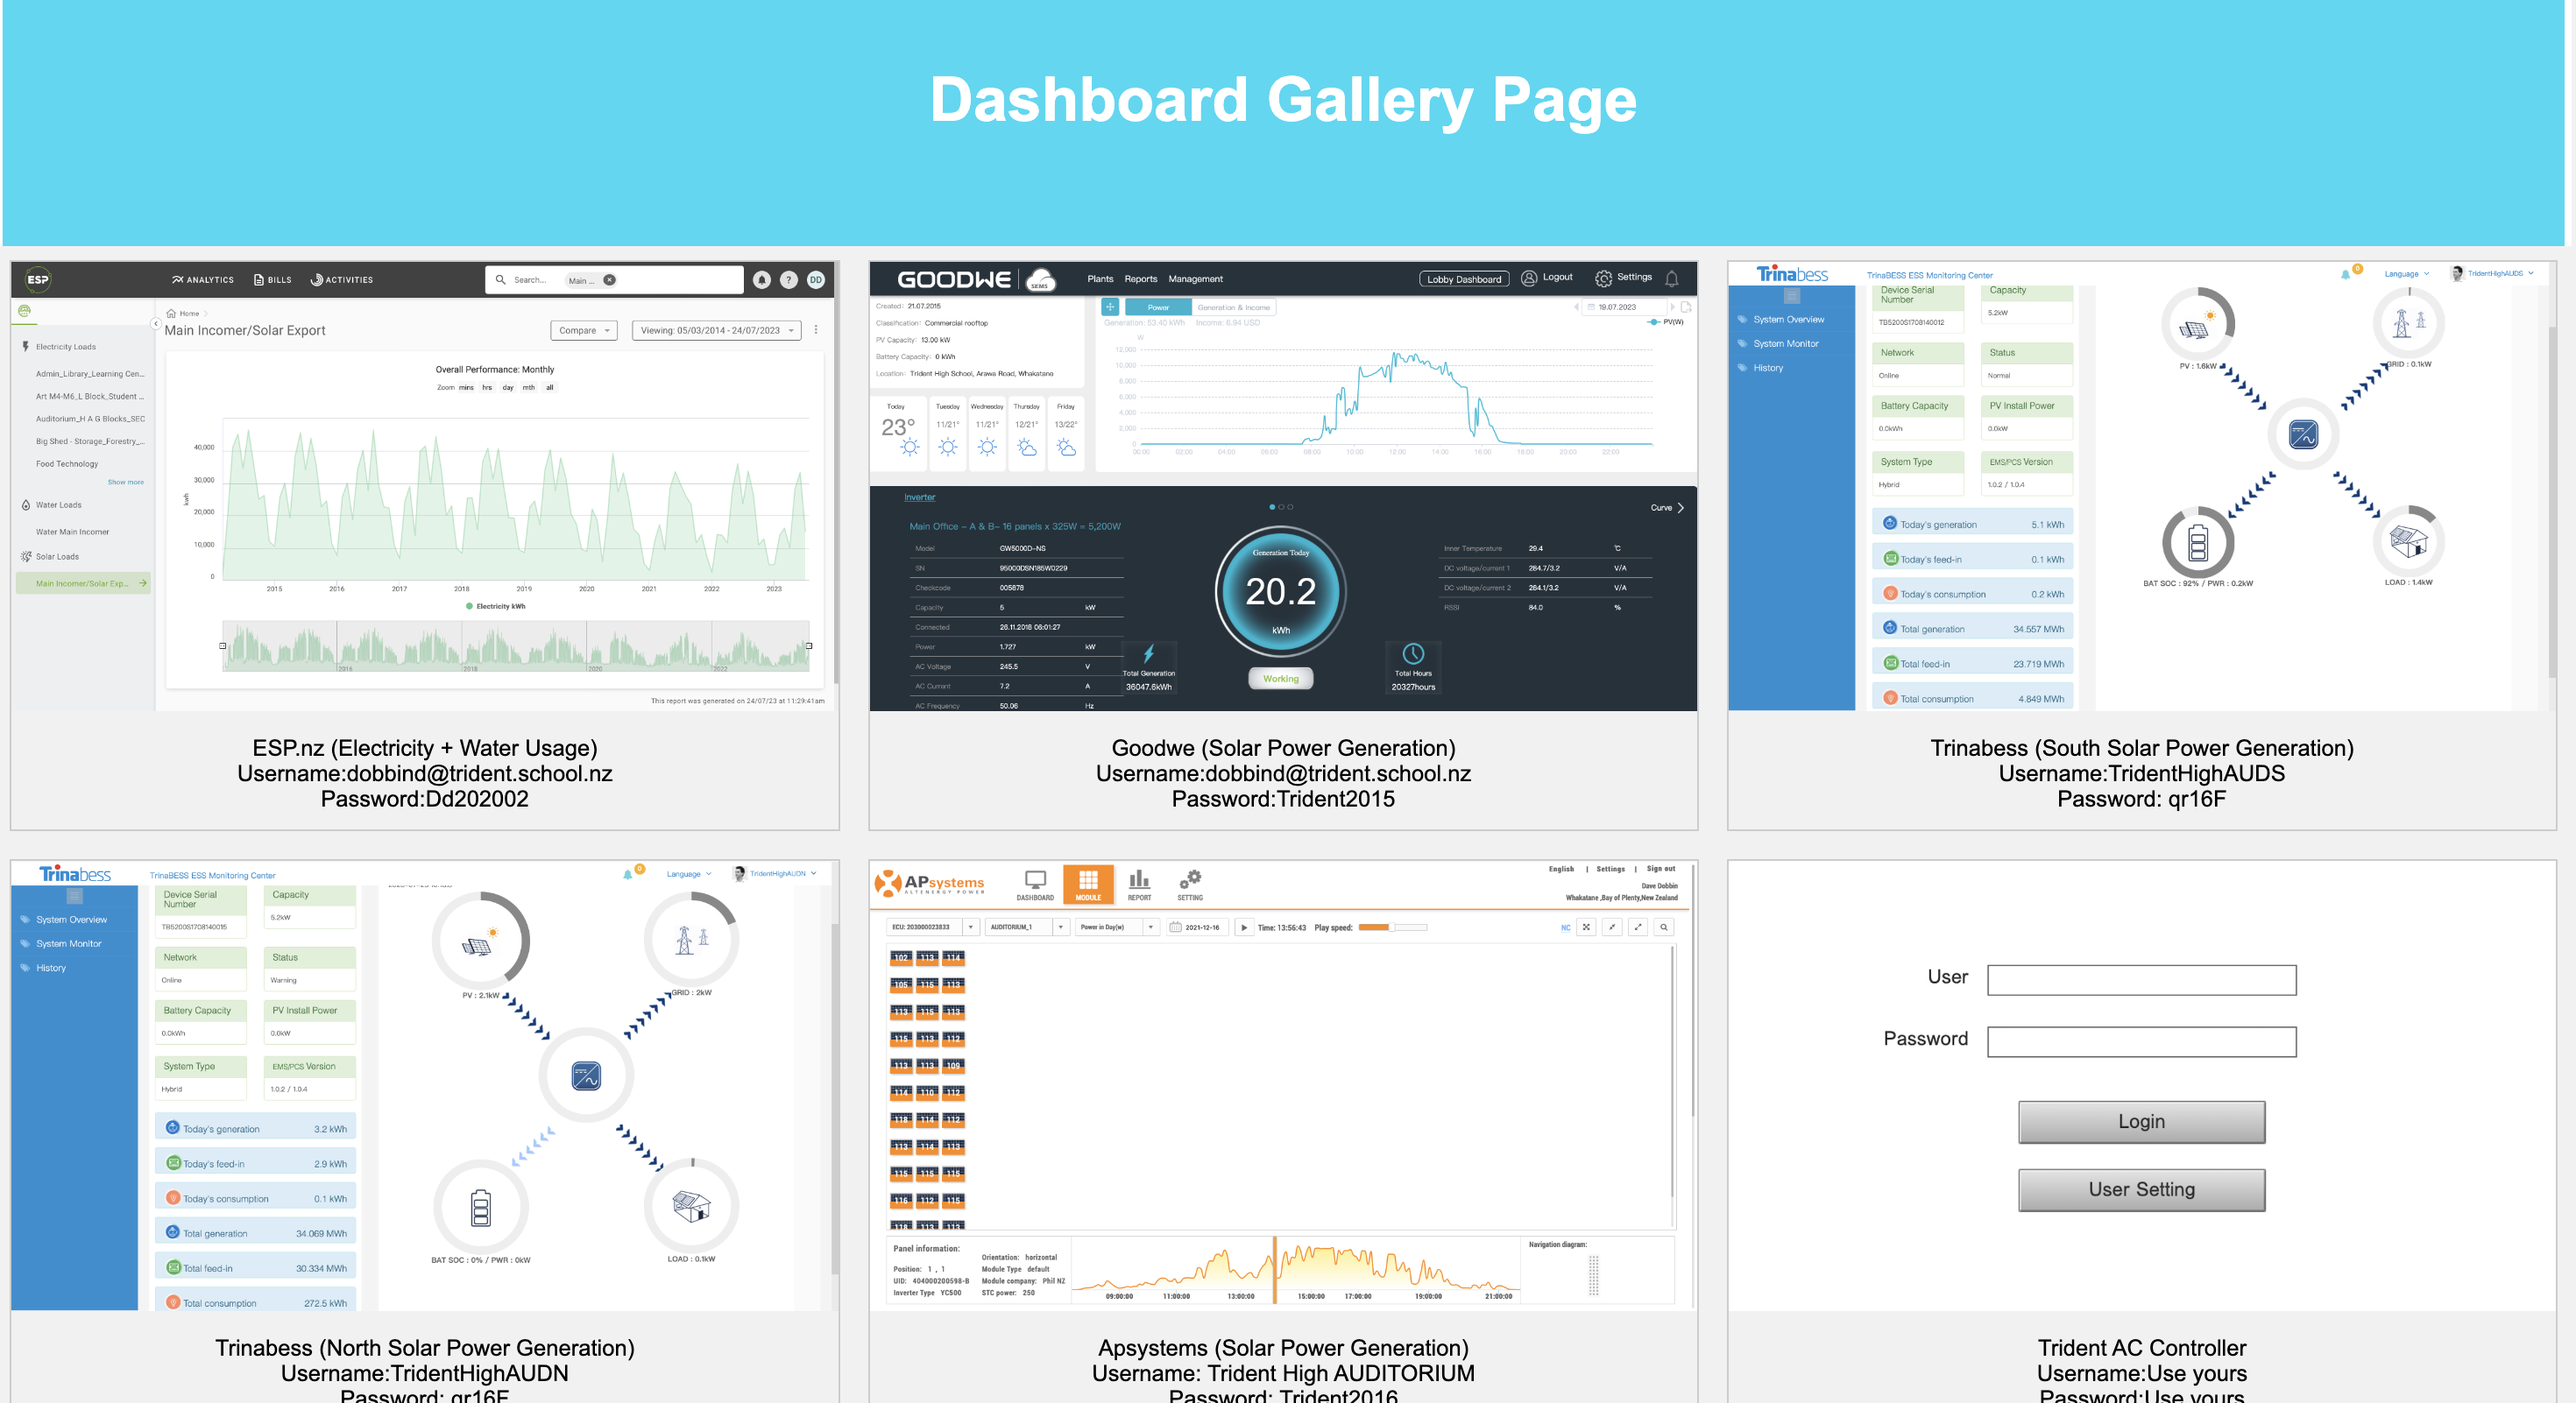
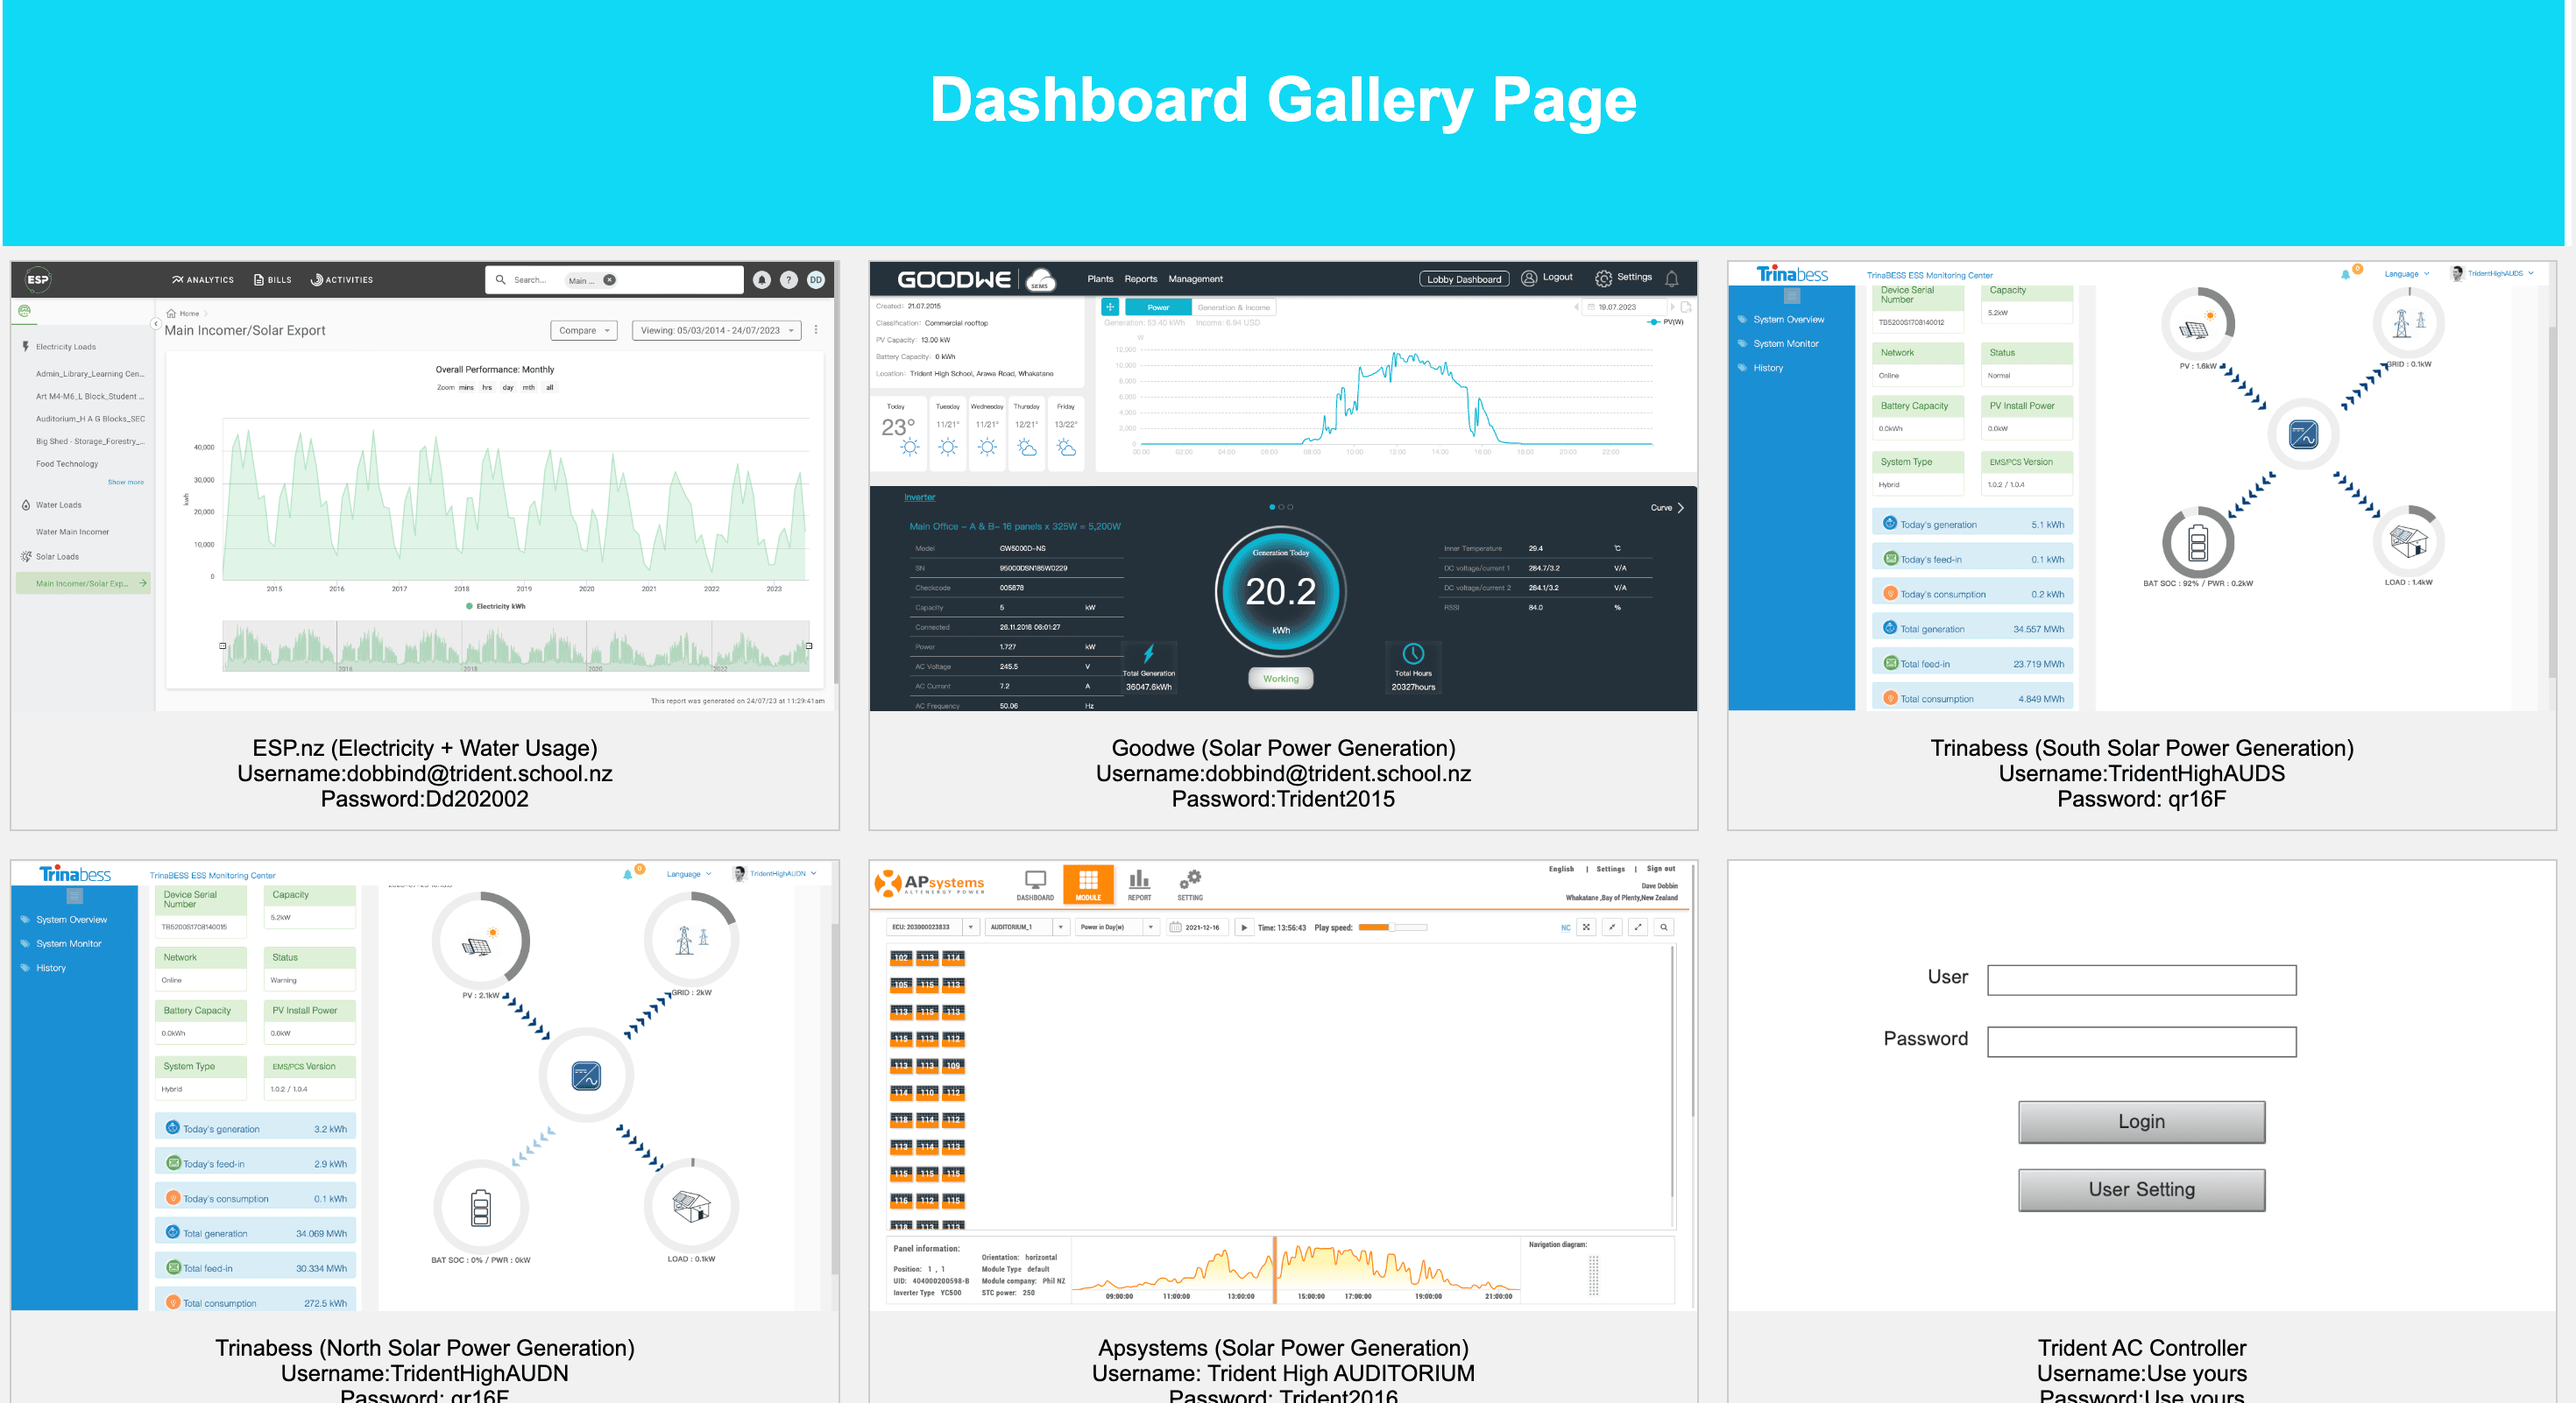
added gallery.css and other things
added gallery.css, added a way to get image from a database, added code to make graphs from database

diff --git a/css/gallerystyle.css b/css/gallerystyle.css
@@ -1,0 +1,30 @@
+div.gallery {
+  margin: 8px;
+  border: 1px solid #ccc;
+  float: left;
+  width: 180px;
+  flex:30%;
+}
+div.header {
+    border-top-style: none;
+    border-bottom-style: none;
+    border-left-style: solid;
+    border-right-style: solid;
+    border-width: 4px;
+    border-color: #FFFFFF;
+    }
+div.gallery img:hover {
+  border: 1px solid #777;
+}
+
+div.gallery img {
+  width: 100%;
+  height: auto;
+}
+
+div.desc {
+  padding: 10px;
+  text-align: center;
+  font-size:80%;
+  word-wrap: break-word;
+}

diff --git a/css/fixedstyle.css b/css/fixedstyle.css
@@ -4,7 +4,10 @@
 body {
     font-family: Arial, Helvetica, sans-serif;
     margin: 0;
-    background-color: #ffffff;
+    background-image: url("tridentbg.jpg");
+    background-repeat: no-repeat;
+    background-attachment: fixed;  
+    background-size: cover;
 }
 .wrapper{
     width: 80%;
@@ -24,7 +27,7 @@ body {
     }
 .navbar {
     overflow:hidden;
-    background-color: #333 
+    background-color: #333;
 }
 .navbar p {
     float:left;

diff --git a/graph 3.php b/graph 3.php
@@ -1,44 +1,54 @@
 <?php  ini_set('display_errors', 1);
 error_reporting(~0); ?>
 <?php  require_once 'setup.php';
-$sql = "SELECT * FROM monthlydata";
-$result = mysqli_query($conn, $sql);
-if (mysqli_num_rows($result) > 0) {
-    $loop = 1;
-    while ($row = mysqli_fetch_assoc($result)) {
-    $x[$loop] = $row['date'];
-    $y[$loop] = $row['kWh'];
-        }
-     } 
-else {
-    echo 'No records found.';
-    }
 mysqli_close($conn);
 ?>
-<canvas id="line-chart"></canvas>
-<script
-    src="https://cdn.jsdelivr.net/npm/chart.js@4.0.1/dist/chart.umd.min.js"></script>
-<script>
-	new Chart(document.getElementById("line-chart"), {
-		type : 'line',
-		data : {
-			labels : [ "<?php print $x[1];?>", "<?php print $x[2];?>", "Mar", 'Apr', 'May', 'June',
-					'July', 'Aug', 'Sep', 'Oct' ],
-			datasets : [
-					{
-						data : [ <?php print $y[1];?>, <?php print $y[2];?>, 12746, 4761, 4838,
-								13835, 16098, 10117, 28154, 33390 ],
-						label : "America",
-						borderColor : "#3cba9f",
-						fill : false
-					}]
-		},
-		options : {
-			title : {
-				display : true,
-				text : 'Chart JS Line Chart Example'
-			}
-		}
-	});
-</script>
- 
+<script src="https://cdn.jsdelivr.net/npm/chart.js@4.0.1/dist/chart.umd.min.js"></script>
+<div style="width: 80%; margin: auto;">
+        <canvas id="lineChart"></canvas>
+</div>
+ <script>
+        // Function to fetch data from PHP script
+        function fetchData() {
+            fetch('fetch_data.php')
+                .then(response => response.json())
+                .then(data => {
+                    const dateData = data.map(item => item.date);
+                    const kWhData = data.map(item => item.kWh);
+                    // Create a line chart
+                    const ctx = document.getElementById('lineChart').getContext('2d');
+                    new Chart(ctx, {
+                        type: 'line',
+                        data: {
+                            labels: dateData,
+                            datasets: [{
+                                label: 'Dates Values',
+                                data: kWhData,
+                                borderColor: 'blue',
+                                borderWidth: 2,
+                                fill: false
+                            }]
+                        },
+                        options: {
+                            scales: {
+                                x: {
+                                    title: {
+                                        display: true,
+                                        text: 'Month'
+                                    }
+                                },
+                                y: {
+                                    title: {
+                                        display: true,
+                                        text: 'kWh Usage'
+                                    }
+                                }
+                            }
+                        }
+                    });
+                })
+                .catch(error => console.error('Error fetching data:', error));
+        }
+        // Call the fetchData function when the page loads
+        window.onload = fetchData;
+    </script>

diff --git a/gallery.php b/gallery.php
@@ -4,38 +4,7 @@
 <title>Monitoring Dashboard</title>
 <meta charset="UTF-8">
 <meta name="viewport" content="width=device-width,initial-scale=a">
-<style>
-div.gallery {
-  margin: 8px;
-  border: 1px solid #ccc;
-  float: left;
-  width: 180px;
-  flex:30%;
-}
-//div.header {
-    border-top-style: none;
-    border-bottom-style: none;
-    border-left-style: solid;
-    border-right-style: solid;
-    border-width: 4px;
-    border-color: #FFFFFF;
-    }
-div.gallery img:hover {
-  border: 1px solid #777;
-}
-
-div.gallery img {
-  width: 100%;
-  height: auto;
-}
-
-div.desc {
-  padding: 10px;
-  text-align: center;
-  font-size:80%;
-  word-wrap: break-word;
-}
-</style>
+<link href="css/gallerystyle.css" rel="stylesheet" type="text/css">
 <link href="css/fixedstyle.css" rel="stylesheet" type="text/css">
 </head>
 <body>
@@ -47,32 +16,32 @@ div.desc {
 <div class="row">
     <div class="gallery">
   <a target="_blank" href="https://hub.esphq.com/login">
-    <img src="images/esp.nz.png" alt="ESP.nz" width="600" height="400">
+    <img src="getImage.php?id=1" alt="ESP.nz" width="600" height="400">
   </a>
   <div class="desc"><b>
       ESP.nz (Electricity + Water Usage)</b></div>
 </div>
     <div class="gallery">
   <a target="_blank" href="https://www.semsportal.com/home/login">
-    <img src="images/goodwe.png" alt="Goodwe" width="600" height="400">
+    <img src="getImage.php?id=2" alt="Goodwe" width="600" height="400">
   </a>
         <div class="desc"><b>Goodwe (Solar Power Generation)</b></div>
 </div>
         <div class="gallery">
   <a target="_blank" href="http://cloud.trinabess.com/TrinabestAgent/login.html">
-    <img src="images/trinabess.png" alt="Trinabess" width="600" height="400">
+    <img src="getImage.php?id=3" alt="Trinabess" width="600" height="400">
   </a>
             <div class="desc"><b>Trinabess (South Solar Power Generation)</b></div>
 </div>
         <div class="gallery">
   <a target="_blank" href="http://cloud.trinabess.com/TrinabestAgent/login.html">
-    <img src="images/trinabess2.png" alt="Trinabess" width="600" height="400">
+    <img src="getImage.php?id=4" alt="Trinabess" width="600" height="400">
   </a>
             <div class="desc"><b>Trinabess (North Solar Power Generation)</b></div>
 </div>
         <div class="gallery">
-  <a target="_blank" href="https://www.apsystemsema.com/ema/index.action?locale=en_US">
-    <img src="images/apsystems.png" alt="Apsystems" width="600" height="400">
+  <a target="_blank" href=https://www.apsystemsema.com/ema/intoDemoUser.action?id=0b2848875901cacc0159089d04e11447&locale=en_US>
+    <img src="getImage.php?id=5" alt="Apsystems" width="600" height="400">
   </a>
             <div class="desc"><b>Apsystems (Solar Power Generation)</b></div>
 </div>

diff --git a/graph 3(2).php b/graph 3(2).php
@@ -1,0 +1,52 @@
+<?php  ini_set('display_errors', 1);
+error_reporting(~0); ?>
+<?php  require_once 'setup.php';
+$sql = "SELECT * FROM monthlydata";
+$result = mysqli_query($conn, $sql);
+if (mysqli_num_rows($result) > 0) {
+    $loop = 1;
+    while ($row = mysqli_fetch_assoc($result)) {
+    $x[$loop] = $row['date'];
+    $y[$loop] = $row['kWh'];
+    $loop += 1;
+        }
+     } 
+else {
+    echo 'No records found.';
+    }
+$x_values = implode(' , ',$x);
+//echo ($x_values);
+mysqli_close($conn);
+$rows = count($x)
+?>
+<?php for($i = 1; $i < $rows + 1; $i++){
+    echo $x[$i];
+    if ($i < $rows) {
+        echo ",";}}?>
+<canvas id="line-chart"></canvas>
+<script src="https://cdn.jsdelivr.net/npm/chart.js@4.0.1/dist/chart.umd.min.js"></script>
+<script>
+	new Chart(document.getElementById("line-chart"), {
+		type : 'line',
+		data : {
+			labels : [<?php for($i = 1; $i < $rows + 1; $i++){
+                                echo $x[$i];
+                                if ($i < $rows) {
+                                    echo ',';}}?>]
+			datasets : [
+					{
+						data : [ <?php print $y[1];?>, 12746],
+						label : "Imported Electricity",
+						borderColor : "#3cba9f",
+						fill : false
+					}]
+		},
+		options : {
+			title : {
+				display : true,
+				text : 'Chart JS Line Chart Example'
+			}
+		}
+	});
+</script>
+ 

diff --git a/admin.php b/admin.php
@@ -1,7 +1,7 @@
 <!DOCTYPE html>
 <html lang="en">
 <head>
-<title>Monitoring Website-Contact</title>
+<title>Monitoring Website-Admin</title>
 <meta charset="UTF-8">
 <meta name="viewport" content="width=device-width,initial-scale=a">
 <link href="css/fixedstyle.css" rel="stylesheet" type="text/css">
@@ -26,7 +26,7 @@
 <div class="wrapper">
 <?php include 'navbar.php';?>  
 <div class="header">
-<h1>Contact Page</h1>
+<h1>Admin Page</h1>
 </div>
 <div>
 <?php  require_once 'setup.php';

diff --git a/edit.php b/edit.php
@@ -1,7 +1,7 @@
 <!DOCTYPE html>
 <html lang="en">
 <head>
-<title>Monitoring Website-Contact</title>
+<title>Monitoring Website-Edit</title>
 <meta charset="UTF-8">
 <meta name="viewport" content="width=device-width,initial-scale=a">
 <link href="css/fixedstyle.css" rel="stylesheet" type="text/css">
@@ -10,7 +10,7 @@
 <div class="wrapper">
 <?php include 'navbar.php';?>  
 <div class="header">
-<h1>Contact Page</h1>
+<h1>Edit Page</h1>
 </div>
 <?php  
 require_once 'setup.php';

diff --git a/fetch_data.php b/fetch_data.php
@@ -1,0 +1,17 @@
+<?php
+include("setup.php");
+// Create connection
+
+$sql = "SELECT date, kWh FROM monthlydata";
+$result = $conn->query($sql);
+
+$data = array(); //initializing an array called data  
+while ($row = $result->fetch_assoc()) {
+    $data[] = $row;
+}
+
+$conn->close();
+
+header('Content-Type: application/json');
+echo json_encode($data);
+?>

diff --git a/index.php b/index.php
@@ -7,7 +7,7 @@
 <link href="css/fixedstyle.css" rel="stylesheet" type="text/css">
 <?php 
 require_once 'setup.php';
-$sql = "SELECT * FROM pages where id = 1";
+$sql = "SELECT * FROM pages";
 $result = mysqli_query($conn, $sql);
 if (mysqli_num_rows($result) > 0) {
     $row = mysqli_fetch_assoc($result);

diff --git a/getImage.php b/getImage.php
@@ -1,0 +1,10 @@
+<?php
+
+$link = mysqli_connect("localhost", "root", "", "tridentpowerusage");
+$sql = "SELECT img FROM links WHERE id=?";
+$result = mysqli_execute_query($link, $sql, [$_GET['id']]);
+$image = mysqli_fetch_column($result);
+
+header("Content-type: image/jpeg");
+echo $image;
+?>

diff --git a/imgtest2.php b/imgtest2.php
@@ -1,0 +1,3 @@
+<body>
+<img src="getImage.php?id=1" />
+</body>
